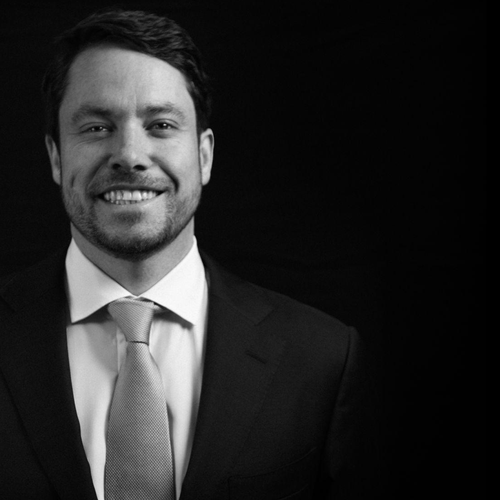
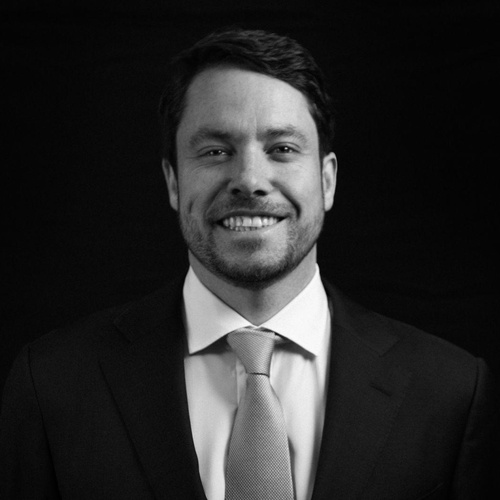
Team: move Sam before Tucker, center headshot, add Global Rising

diff --git a/lib/data.ts b/lib/data.ts
@@ -261,10 +261,10 @@ export interface TeamMember {
 
 export const TEAM_FULL: TeamMember[] = [
   { name: 'Madeline Litvack', role: 'Head of Product', tags: 'Duke · Northwestern', past: 'Twitter / X · Apple', headshotPath: '/headshots/madeline.png', li: 'https://www.linkedin.com/in/madelinelitvack/' },
-  { name: 'Sam Christey', role: 'Head of Investor Relations', tags: '', past: '', headshotPath: '/headshots/sam.png', li: 'https://www.linkedin.com/in/sam-christey-47a0a54/' },
   { name: 'Nikhil Bhambi', role: 'Venture Associate', tags: 'Northwestern · Claremont McKenna', past: 'National Securities', headshotPath: '/headshots/nikhil.png', li: 'https://www.linkedin.com/in/nikhilbhambi/' },
   { name: 'Mukul Anand', role: 'Venture Analyst', tags: 'University of Pennsylvania', past: '', headshotPath: '/headshots/mukul.png', li: 'https://www.linkedin.com/in/mukul-r-anand/' },
   { name: 'Gianna Orozco', role: 'Fractional Controller', tags: 'Santa Clara', past: 'Virgin · Claremont Creek', headshotPath: '/headshots/gianna.png', li: 'https://www.linkedin.com/in/gianna-orozco-2852838/' },
+  { name: 'Sam Christey', role: 'Head of Investor Relations', tags: '', past: 'Global Rising', headshotPath: '/headshots/sam.png', li: 'https://www.linkedin.com/in/sam-christey-47a0a54/' },
   { name: 'Tucker Curtis', role: 'Operations', tags: '', past: 'OpenClaw', headshotPath: '/headshots/tucker.png', li: 'https://openclaw.ai' },
 ];
 
